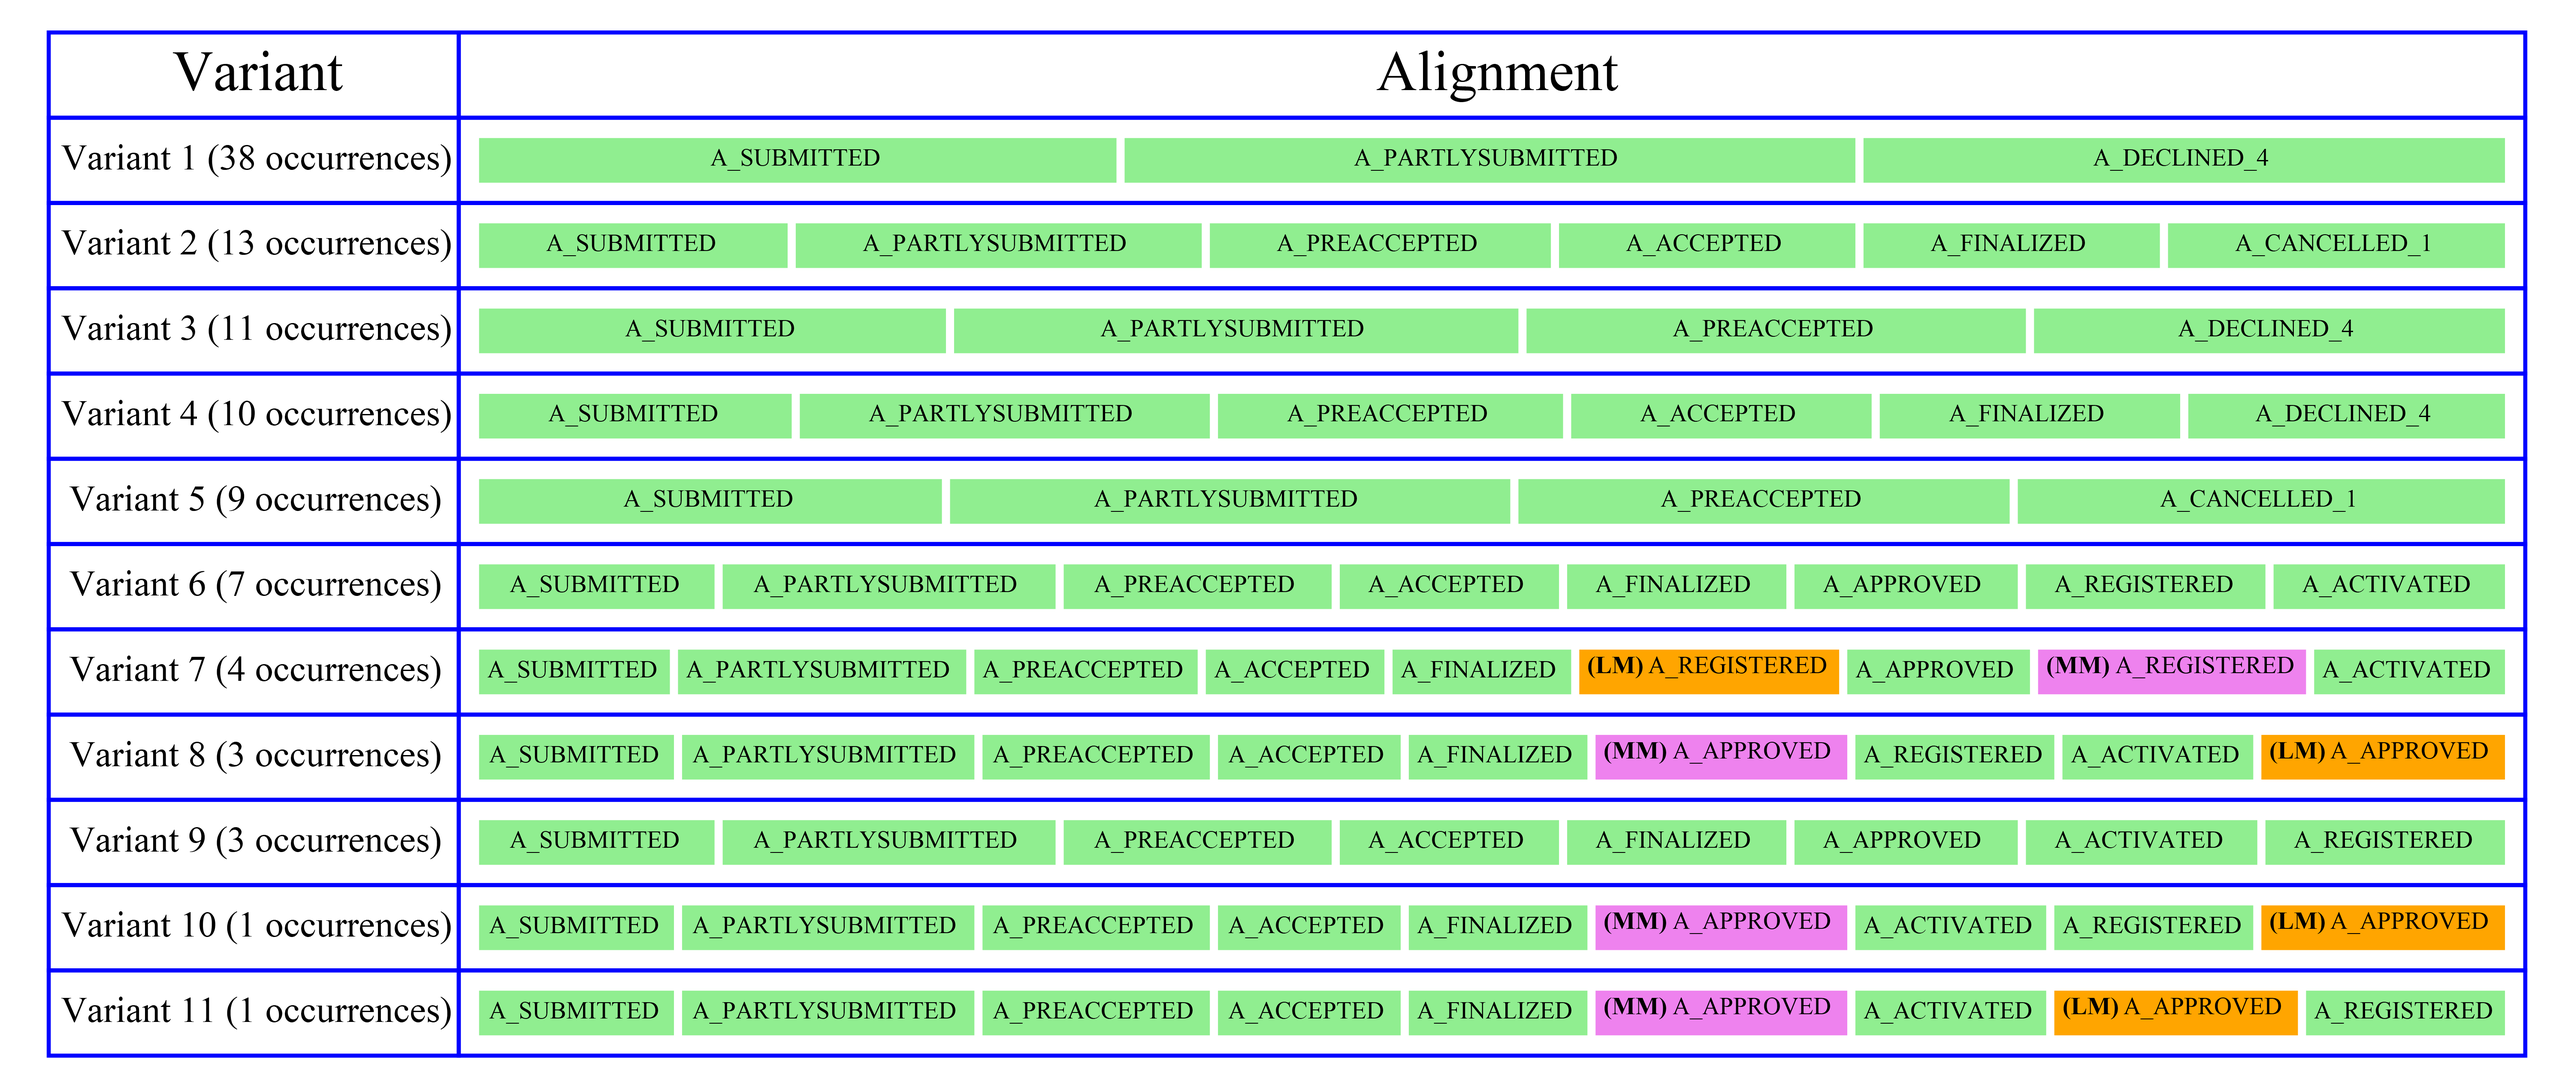
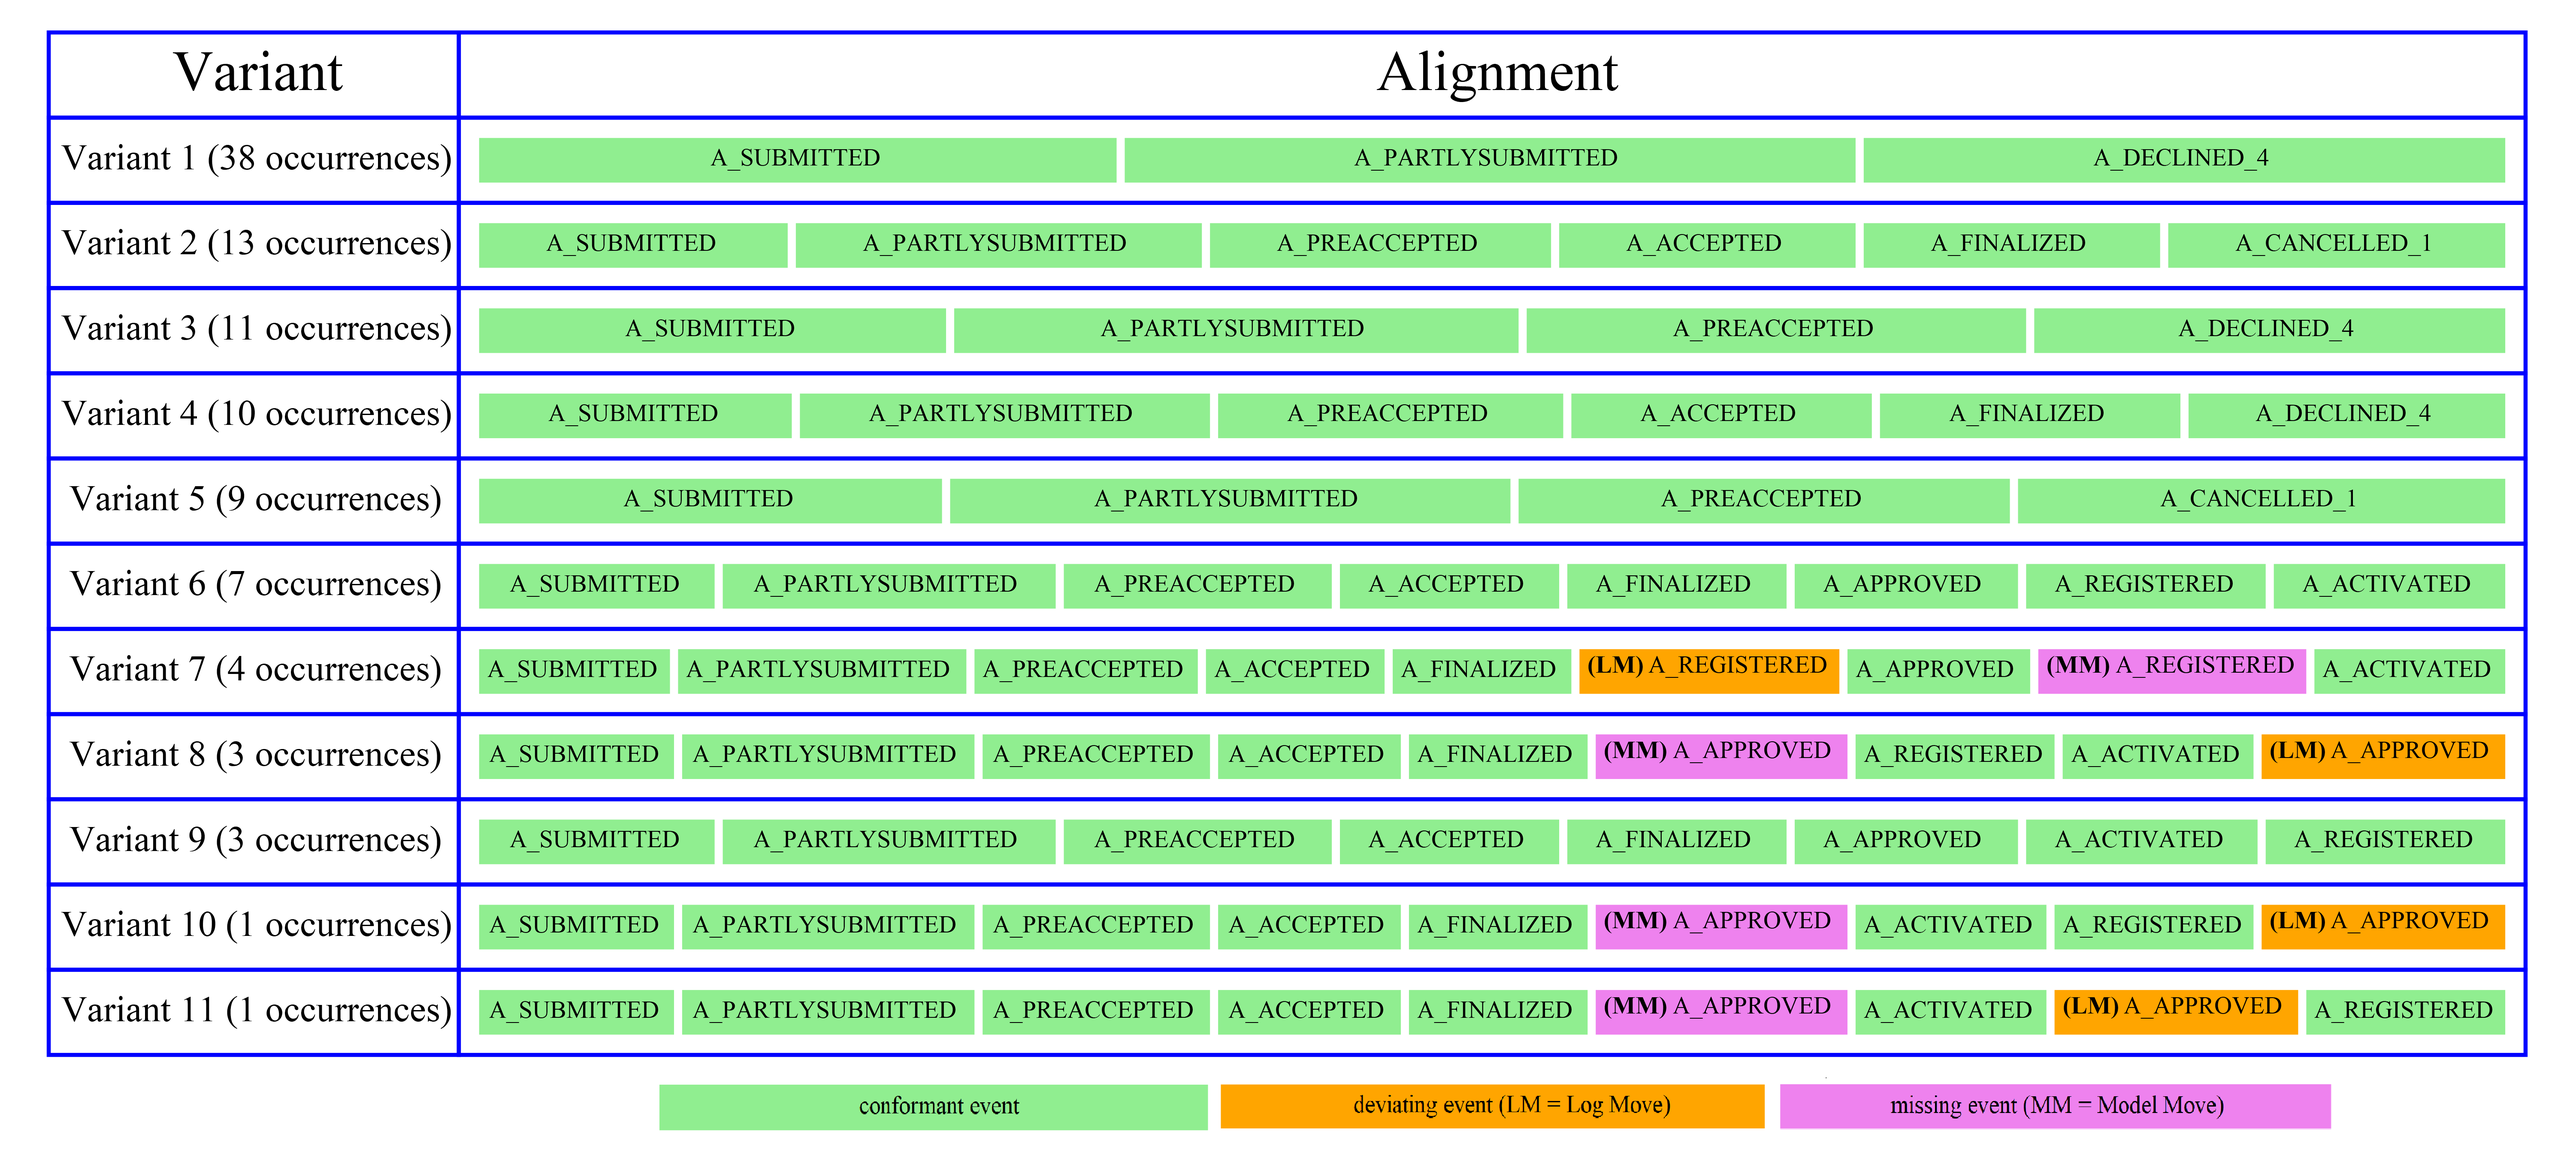
update 0.52 -some changes

diff --git a/components/variant_table.py b/components/variant_table.py
@@ -8,14 +8,13 @@ class VariantTable(Dashboard.Item):
         lst = str(text).split(";")
 
         image_path1 = "https://raw.githubusercontent.com/Knostpe/thesis-test/master/data/images/" + lst[1] +".png"
-        image_path2 = "https://raw.githubusercontent.com/Knostpe/thesis-test/master/data/images/vis-alignments-legend.png"
 
         with mui.Paper(key=self._key,
                        sx={"display": "flex", "flexDirection": "column", "borderRadius": 3, "overflow": "hidden"},
                        elevation=1):
 
             with self.title_bar(padding="10px 15px 10px 15px", dark_switcher=False):
-                mui.icon.AccountTree()
+                mui.icon.TableRows()
                 mui.Typography(lst[0])
 
             # Center the image and add padding for CardMedia
@@ -24,12 +23,5 @@ class VariantTable(Dashboard.Item):
                     component="img",
                     sx={"maxWidth": "100%", "maxHeight": "100%", "width": "auto", "height": "auto"},
                     image=image_path1,  # Pass the image bytes
-                    alt="Image Alt Text",
-                )
-
-                mui.CardMedia(
-                    component="img",
-                    sx={"maxWidth": "100%", "maxHeight": "100%", "width": "auto", "height": "auto"},
-                    image=image_path2,  # Pass the image bytes
                     alt="Image Alt Text",
                 )

diff --git a/components/datagrid_align.py b/components/datagrid_align.py
@@ -28,7 +28,7 @@ class DataGridAlign(Dashboard.Item):
                        sx={"display": "flex", "flexDirection": "column", "borderRadius": 3, "overflow": "hidden"},
                        elevation=1):
             with self.title_bar(padding="10px 15px 10px 15px", dark_switcher=False):
-                mui.icon.ViewCompact()
+                mui.icon.DataSet()
                 mui.Typography("Alignment Log")
 
             with mui.Box(sx={"flex": 1, "minHeight": 0}):

diff --git a/components/datagrid.py b/components/datagrid.py
@@ -26,7 +26,7 @@ class DataGrid(Dashboard.Item):
                        sx={"display": "flex", "flexDirection": "column", "borderRadius": 3, "overflow": "hidden"},
                        elevation=1):
             with self.title_bar(padding="10px 15px 10px 15px", dark_switcher=False):
-                mui.icon.ViewCompact()
+                mui.icon.DataSet()
                 mui.Typography("Event Log")
 
             with mui.Box(sx={"flex": 1, "minHeight": 0}):

diff --git a/app.py b/app.py
@@ -105,7 +105,6 @@ if selected == "Free Upload":
 if log is not None and pn is not None:
 
     #Util.plot_compare_calc(Util.fitness_compare_calc(log, pn, im, fm))
-
     st.markdown('#### Scatter plot')
     c1, c2, c3 = st.columns((3, 3, 3))
 
